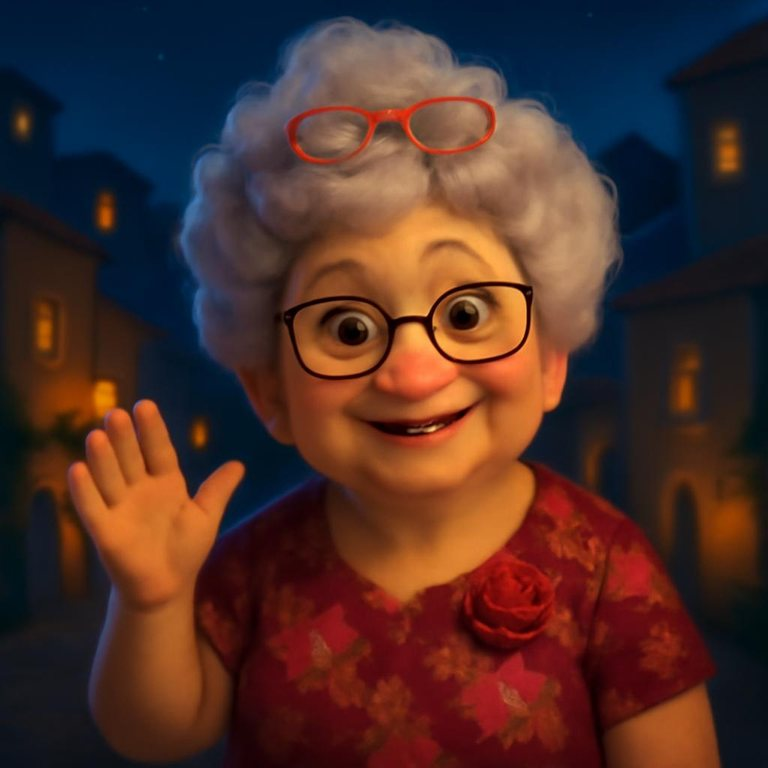
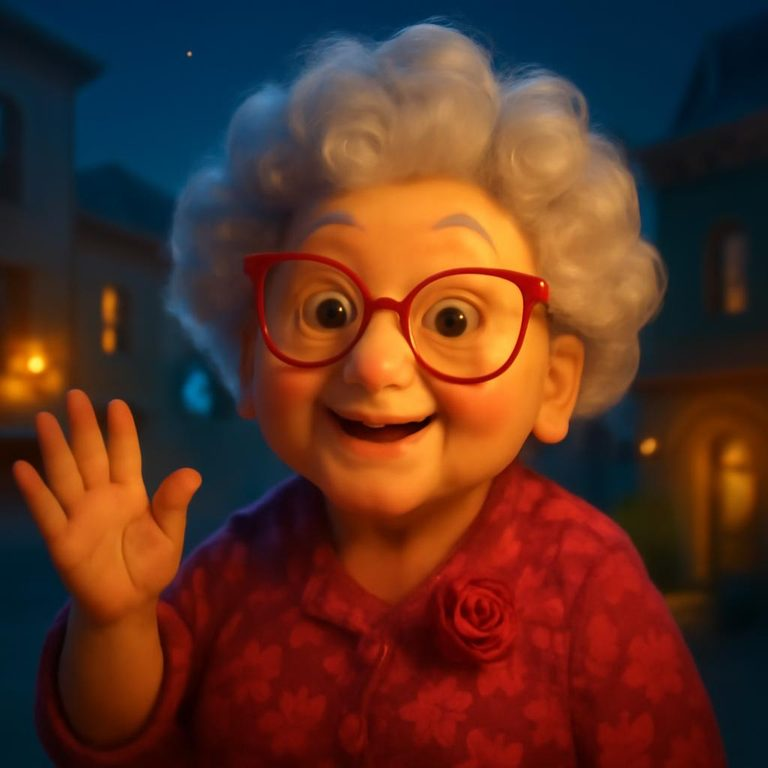
Granny Runde 7b: Tinkos neues Winkebild (eine Brille, Hand frei) als Gruss, Kerzen-Bild an der Nachttisch-Uhr nachts; sw granny-v12
Claude-Session: https://claude.ai/code/session_01WJpM1nbdBudHGmZFDewuLb

diff --git a/granny/runde7.js b/granny/runde7.js
@@ -215,11 +215,13 @@ window.R7_CFG = {
   function teil(h) { return h < 5 ? 'Nacht' : h < 11 ? 'Morgen' : h < 14 ? 'Mittag' : h < 18 ? 'Nachmittag' : h < 22 ? 'Abend' : 'Nacht'; }
   var ck = el('<section class="r7 r7-karte" aria-labelledby="r7u-t">' +
     '<p class="r7-eb">Für den Nachttisch</p><h2 id="r7u-t">🌙 Grosse Uhr</h2>' +
-    '<div style="display:flex;gap:16px;align-items:center"><img class="r7-figur" src="figur.jpg" alt="Granny" loading="lazy" width="72" height="72">' +
+    '<div style="display:flex;gap:16px;align-items:center"><img class="r7-figur r7-uhr-fig" src="figur.jpg" alt="Granny" loading="lazy" width="72" height="72">' +
     '<p class="r7-p" style="margin:0">Eine ruhige, grosse Uhr mit Tag und Datum. Gut für die Nacht, wenn das Handy am Ladekabel steht.</p></div>' +
     '<button type="button" class="r7-btn voll gross r7-uhr-los" style="margin-top:16px">🕰 Uhr zeigen</button></section>');
+  (function () { var h = new Date().getHours(); if (h >= 21 || h < 6) { var f = ck.querySelector('.r7-uhr-fig'); f.src = 'posen/kerze.jpg'; f.alt = 'Granny mit Kerze am Nachttisch'; } })();
   ck.querySelector('.r7-uhr-los').addEventListener('click', function () {
     var o = el('<div class="r7 r7-dia r7-uhr" role="dialog" aria-modal="true" aria-label="Grosse Uhr" style="background:#05070f;display:flex;flex-direction:column;align-items:center;justify-content:center;text-align:center;gap:8px;padding:24px">' +
+      '<img class="r7-uhr-kerze" src="posen/kerze.jpg" alt="Granny sitzt mit einer Kerze am Nachttisch" width="132" height="132" hidden style="width:132px;height:132px;border-radius:50%;object-fit:cover;border:2px solid #4a3d22;box-shadow:0 0 40px rgba(242,193,78,.25);margin-bottom:8px">' +
       '<p class="r7-uhr-teil" style="margin:0;font-size:22px;color:#c9a54a"></p>' +
       '<p class="r7-uhr-zeit" style="margin:0;font-size:min(30vw,40vh);line-height:1;font-weight:700;color:#e8c56a;font-variant-numeric:tabular-nums;letter-spacing:-.02em"></p>' +
       '<p class="r7-uhr-tag" style="margin:0;font-size:28px;color:#d8cfb8"></p>' +
@@ -232,7 +234,9 @@ window.R7_CFG = {
       o.querySelector('.r7-uhr-zeit').textContent = zeit(d);
       o.querySelector('.r7-uhr-tag').textContent = TAGE[d.getDay()] + ', ' + d.getDate() + '. ' + MON7[d.getMonth()];
       o.querySelector('.r7-uhr-teil').textContent = 'Es ist ' + teil(d.getHours());
+      var nacht = d.getHours() >= 21 || d.getHours() < 6;
       o.style.filter = (d.getHours() >= 22 || d.getHours() < 6) ? 'brightness(.6)' : '';
+      o.querySelector('.r7-uhr-kerze').hidden = !nacht;
     }
     tick(); var t = setInterval(tick, 15000);
     function zu() { clearInterval(t); try { if (wl) wl.release(); } catch (e) {} o.remove(); document.removeEventListener('keydown', esc1); }

diff --git a/granny/sw.js b/granny/sw.js
@@ -1,6 +1,6 @@
 // Granny – Offline-Cache (nur eigene Dateien, keine Daten, keine Stimmen)
-const CACHE = 'granny-v11';
-const FILES = ['./runde7.js', './runde6.js', './saison/advent.jpg', './besuch/waefwaef.jpg', './besuch/jackie.jpg', './besuch/mama-affe.jpg', './besuch/flo.jpg', './', './index.html', './granny-plus.js', './posen.js', './glanz.js', './runde4.js', './feedback.js', './figur.jpg', './figur-gross.jpg', './posen/suchen.jpg', './posen/nicken.jpg', './posen/lachen.jpg', './posen/winken.jpg', './posen/herz.jpg', './posen/trinken.jpg', './icon-180.png', './icon-192.png', './manifest.webmanifest', '../nova/nova.js', '../nova/puppe.js', '../nova/puppe.css', '../nova/seelen.js'];
+const CACHE = 'granny-v12';
+const FILES = ['./runde7.js', './runde6.js', './saison/advent.jpg', './besuch/waefwaef.jpg', './besuch/jackie.jpg', './besuch/mama-affe.jpg', './besuch/flo.jpg', './', './index.html', './granny-plus.js', './posen.js', './glanz.js', './runde4.js', './feedback.js', './figur.jpg', './figur-gross.jpg', './posen/suchen.jpg', './posen/nicken.jpg', './posen/lachen.jpg', './posen/winken.jpg', './posen/herz.jpg', './posen/trinken.jpg', './posen/kerze.jpg', './icon-180.png', './icon-192.png', './manifest.webmanifest', '../nova/nova.js', '../nova/puppe.js', '../nova/puppe.css', '../nova/seelen.js'];
 self.addEventListener('install', e => {
   e.waitUntil(caches.open(CACHE).then(c => Promise.all(FILES.map(f => c.add(f).catch(() => {})))).then(() => self.skipWaiting()));
 });

diff --git a/granny/runde4.js b/granny/runde4.js
@@ -60,7 +60,7 @@
     // Runde 5: Tinkos «Granny winkt» (Hand frei) – erst das Bild zeigen, dann schwingt genau diese Hand
     if (img && window.Puppe && window.FigurPosen) {
       FigurPosen.zeige(img, 'winken', 3600, ['lachen']).then(function (da) {
-        if (!da || !puppeGruss(img, { figur: 'granny', gruss: 'lachen+winken', bild: 'posen/winken.jpg', augen: [[9, 9, 0.01, 0.01]], mund: { l: [9, 9], r: [9.1, 9], oben: 0, unten: 0, kinn: 0.01 }, arm: false, kopf: [0.53, 0.4, 0.3], gesicht: [0.53, 0.45, 0.2], winkArm: { x: 0.12, y: 0.66, r: 0.11, dx: 0.15, dy: 0.92, seite: 'links' } })) puppeGruss(img, { figur: 'granny', gruss: 'lachen+winken' });
+        if (!da || !puppeGruss(img, { figur: 'granny', gruss: 'lachen+winken', bild: 'posen/winken.jpg', augen: [[9, 9, 0.01, 0.01]], mund: { l: [9, 9], r: [9.1, 9], oben: 0, unten: 0, kinn: 0.01 }, arm: false, kopf: [0.52, 0.4, 0.3], gesicht: [0.52, 0.44, 0.2], winkArm: { x: 0.14, y: 0.64, r: 0.11, dx: 0.15, dy: 0.92, seite: 'links' } })) puppeGruss(img, { figur: 'granny', gruss: 'lachen+winken' });
       });
       return;
     }
